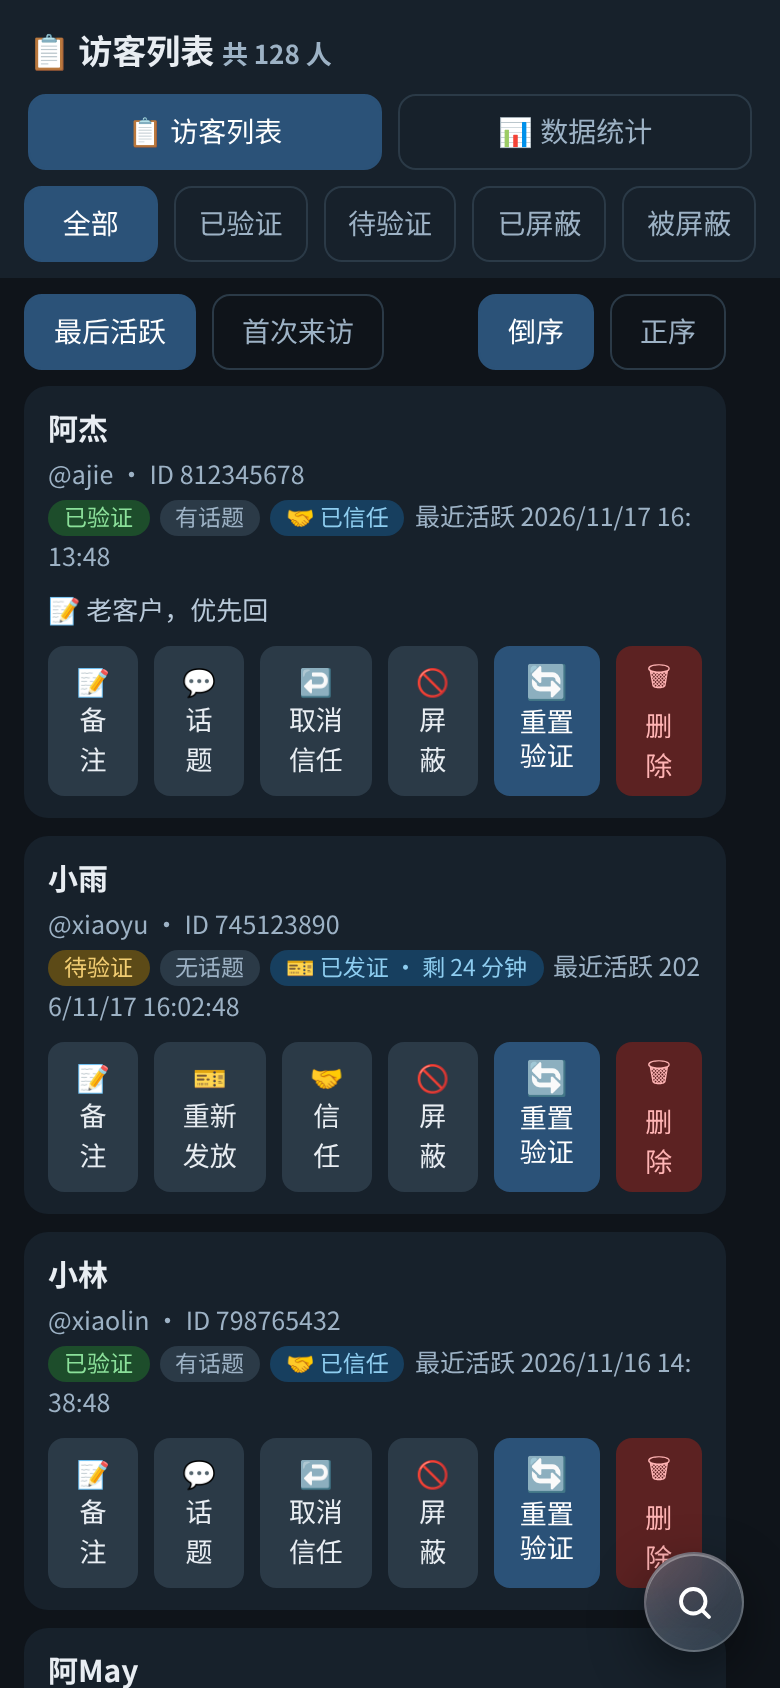
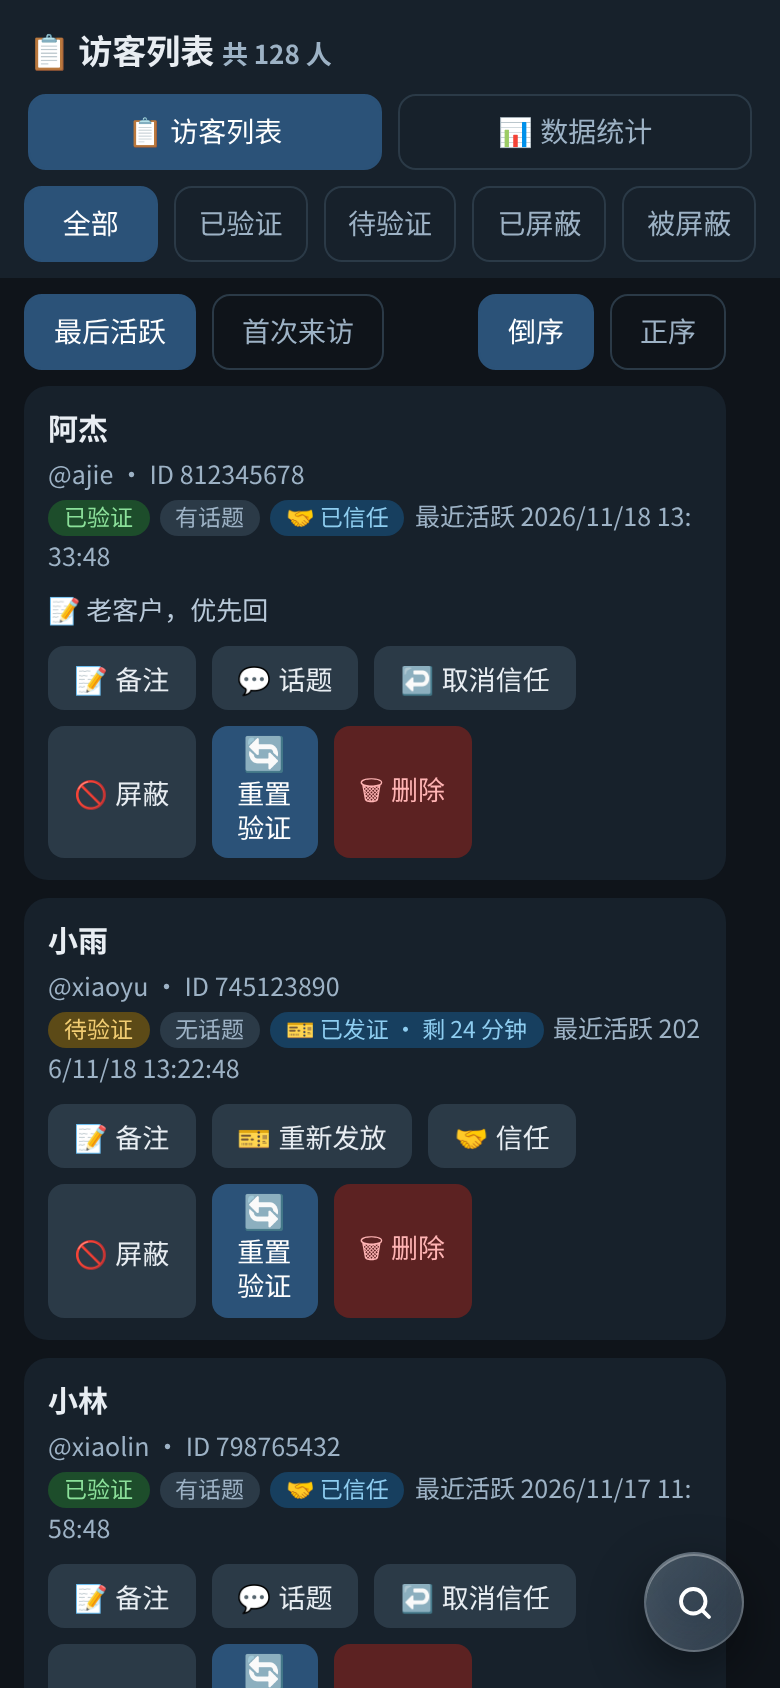
v1.6.2：访客卡按钮标签不再折行（按内容宽度整行呈现、放不下整颗换行）；访客列表与二级名单效果图同步

Changed region(s): [[0.0615, 0.3697, 0.9231, 1.0], [0.0615, 0.3081, 0.0923, 0.3389]]

diff --git a/TGbot-D1创新版本3.0.5-增强版.js b/TGbot-D1创新版本3.0.5-增强版.js
@@ -19032,8 +19032,8 @@ function buildUserListPage(pageCtx = {}) {
   .b-ban { background: #5c2222; color: #f28b8b; }
   .b-dim { background: #2b3a47; color: #9db2c5; }
   .b-pass { background: #173f5f; color: #8ecdf0; }
-  .ops { margin-top: 9px; display: flex; gap: 8px; }
-  .ops button, .cf button { padding: 6px 13px; border-radius: 8px; border: 0; font-size: 13.5px; cursor: pointer; }
+  .ops { margin-top: 9px; display: flex; flex-wrap: wrap; gap: 8px; }
+  .ops button, .cf button { flex: 0 0 auto; padding: 6px 13px; border-radius: 8px; border: 0; font-size: 13.5px; white-space: nowrap; cursor: pointer; }
   .rst { background: #2b5278; color: #fff; }
   .rwb { flex: 0 0 auto; display: flex; flex-direction: column; align-items: center; justify-content: center; gap: 2px; padding: 6px 10px; }
   .ric { font-size: 17px; line-height: 1.1; }
